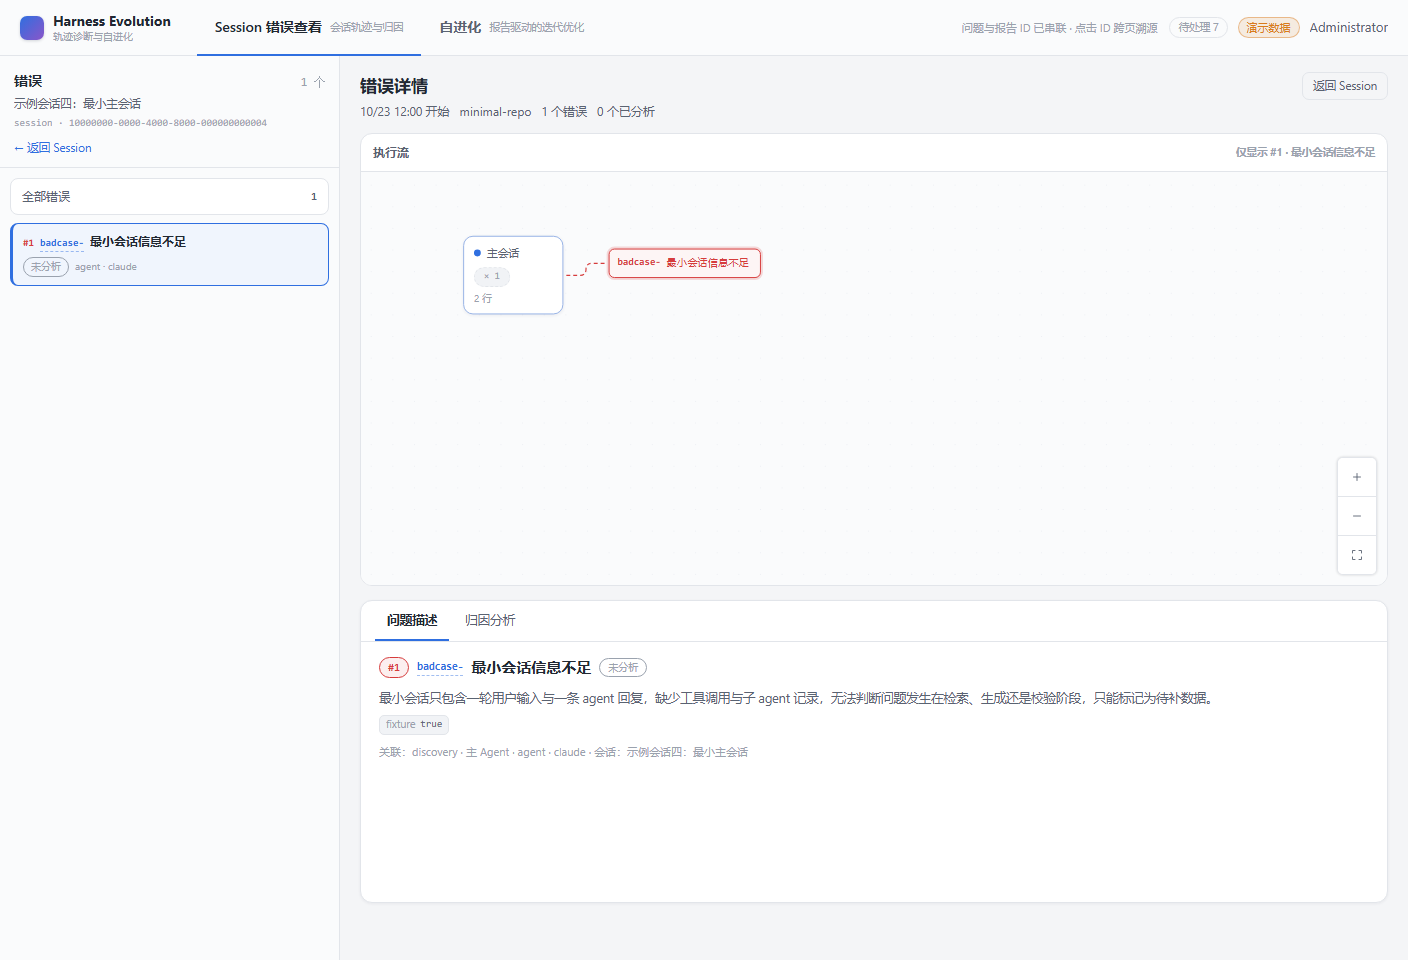
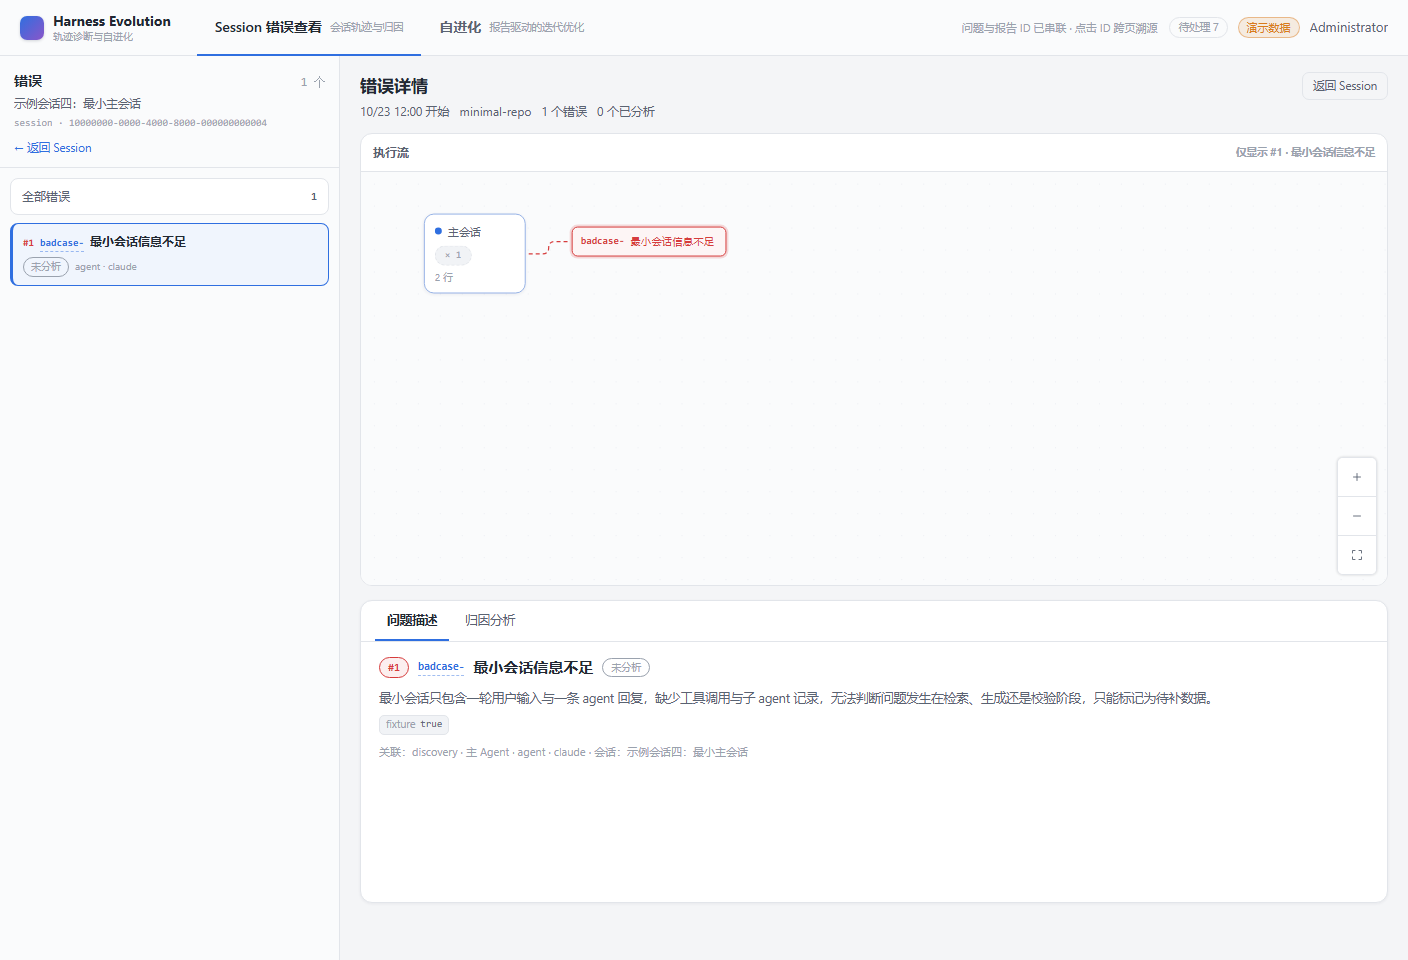
fix(api): keep reporter anchor for title-only degradation (#165)

Changed region(s): [[0.3125, 0.2188, 0.5312, 0.3125], [0.2812, 0.6875, 0.4688, 0.7188]]

diff --git a/apps/web/src/components/agent-tree/layout.test.ts b/apps/web/src/components/agent-tree/layout.test.ts
@@ -877,6 +877,35 @@ describe("agent-tree graph layout", () => {
     );
   });
 
+  it("propagates the degraded flag from the full problem record", () => {
+    const anchor = {
+      badCaseId: "case-degraded-source",
+      hostAgentId: "main",
+      eventIndex: 0,
+      kind: "discovery" as const,
+      side: "above" as const,
+      x: 100,
+      y: 100,
+    };
+    const treeCase = {
+      ...demoNestedTree.badCases[0]!,
+      badCaseId: "case-degraded-source",
+      title: "tree title",
+    };
+    const detail = badCaseFixture({
+      ...treeCase,
+      title: "derived title",
+      degraded: true,
+    });
+
+    const fromTree = buildBadCaseOverlay([anchor], [treeCase]);
+    const fromDetail = buildBadCaseOverlay([anchor], [treeCase], [detail]);
+
+    expect(fromTree.badCaseNodes[0]!.data.degraded).toBe(false);
+    expect(fromDetail.badCaseNodes[0]!.data.degraded).toBe(true);
+    expect(fromDetail.badCaseNodes[0]!.data.title).toBe("derived title");
+  });
+
   it("moves cards away from nearby anchors until their rectangles no longer overlap", () => {
     const anchors = [
       {

diff --git a/apps/web/src/components/agent-tree/nodes/BadCaseNode.test.ts b/apps/web/src/components/agent-tree/nodes/BadCaseNode.test.ts
@@ -110,6 +110,30 @@ describe("BadCaseNode", () => {
     );
   });
 
+  it("marks a derived problem title with the degraded chip", () => {
+    const wrapper = mount(BadCaseNode, {
+      props: {
+        data: {
+          badCaseId: "case-degraded",
+          shortId: "case-deg",
+          title: "derived title",
+          width: 200,
+          degraded: true,
+          active: false,
+        },
+      },
+      global: {
+        provide: {
+          [BAD_CASE_SELECT_KEY]: vi.fn(),
+        },
+      },
+    });
+
+    expect(wrapper.get(".rf-finding").classes()).toContain("degraded");
+    expect(wrapper.get(".finding-degraded").text()).toBe("降级");
+    expect(wrapper.get(".finding-title").text()).toBe("derived title");
+  });
+
   it("exposes source handles for vertical error-card stacking", () => {
     const wrapper = mount(BadCaseNode, {
       props: {

diff --git a/apps/api/app/service/problems/service.py b/apps/api/app/service/problems/service.py
@@ -137,7 +137,8 @@ class ProblemService:
                 warning.code == "EXTERNAL_FIELD_MISSING" and warning.field == "title"
                 for warning in item.warnings
             )
-            degraded = item.bad_case_type is None or item.object_type is None or title_degraded
+            identity_degraded = item.bad_case_type is None or item.object_type is None
+            degraded = identity_degraded or title_degraded
             diagnostic_code: str | None = None
             if degraded:
                 diagnostic_code = next(
@@ -152,6 +153,9 @@ class ProblemService:
                     "public problem has invalid external presentation fields",
                     extra={"bad_case_id": item.bad_case_id},
                 )
+            # Only broken identity fields fall back to the main-node placeholder
+            # anchor; a derived title must keep the real reporter anchor.
+            if identity_degraded:
                 anchor = resolve_problem_anchor(
                     bad_case_type=None,
                     object_name=item.object_name,

diff --git a/apps/api/tests/m4-02-problem-api/test_problem_api.py b/apps/api/tests/m4-02-problem-api/test_problem_api.py
@@ -433,5 +433,8 @@ async def test_blank_title_is_derived_and_reported_as_degraded(
     assert listed_case["title"] == "合成示例：检查结论缺少目标文件。"  # noqa: RUF001
     assert listed_case["degraded"] is True
     assert listed_case["diagnosticCode"] == "EXTERNAL_FIELD_MISSING"
+    # A derived title must not fall back to the main-node placeholder anchor:
+    # the reporter anchor stays identical to the tree read model.
+    assert listed_case["anchor"] == {"agentId": "agent-s1-review-0001", "eventIndex": -1}
     assert detail.status_code == 200
     assert detail.json() == listed_case
